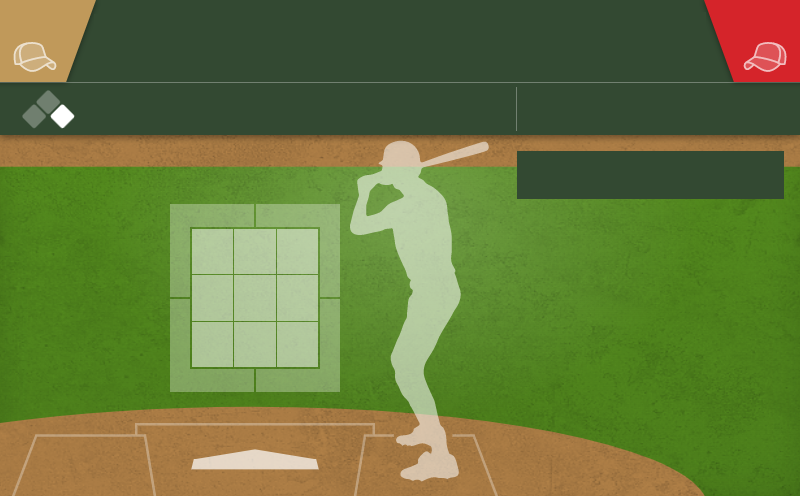
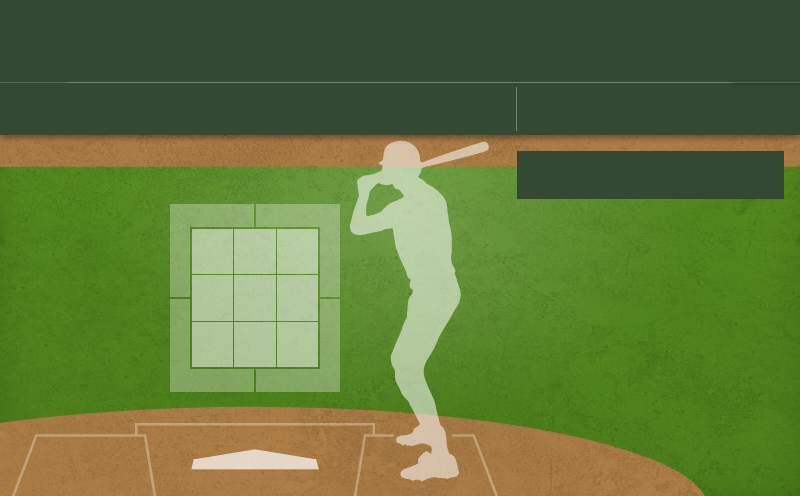
header cap

Changed region(s): [[0.0, 0.0, 0.125, 0.2722], [0.875, 0.0, 1.0, 0.1815]]

diff --git a/index.html b/index.html
@@ -73,6 +73,34 @@
                 text-anchor="middle"
               ></text>
             </g>
+            <g id="pitchercap">
+              <polygon
+                id="pitcherbox"
+                points="0, 0 97, 0 67, 82 0, 82 "
+                fill="#d0a95a"
+                fill-opacity="0.9"
+              />
+              <image
+                href="./media/capL.png"
+                width="50"
+                x="10"
+                y="30"
+              />  
+            </g>
+            <g id="battercap">
+              <polygon
+                id="batterbox"
+                points="800, 0 703, 0 733, 82 800, 82 "
+                fill="#e0595a"
+                fill-opacity="0.9"
+              />
+              <image
+                href="./media/capR.png"
+                width="50"
+                x="740"
+                y="30"
+              />  
+            </g>
             <text
               id="headerHome"
               font-size="24"
@@ -95,13 +123,13 @@
             </text>
             <text
               id="Batsman"
-              font-size="14"
+              font-size="18"
               x="105"
-              y="25"
+              y="40"
               text-anchor="start"
               fill="#fff"
             >
-              BATSMAN
+              PITCHER
             </text>
             <text
               id="Batsman1"
@@ -121,13 +149,13 @@
             ></text>
             <text
               id="Bowler"
-              font-size="14"
+              font-size="18"
               x="695"
-              y="25"
+              y="40"
               text-anchor="end"
               fill="#fff"
             >
-              BOWLER
+              BATTER
             </text>
             <text
               id="Bowler1"
